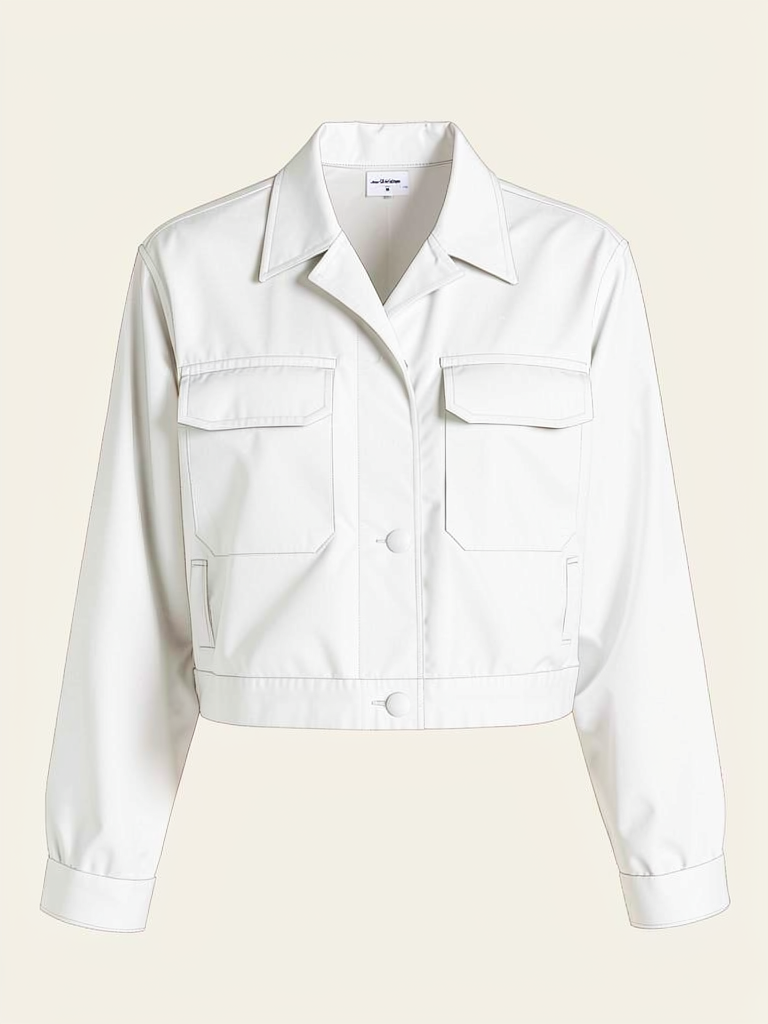
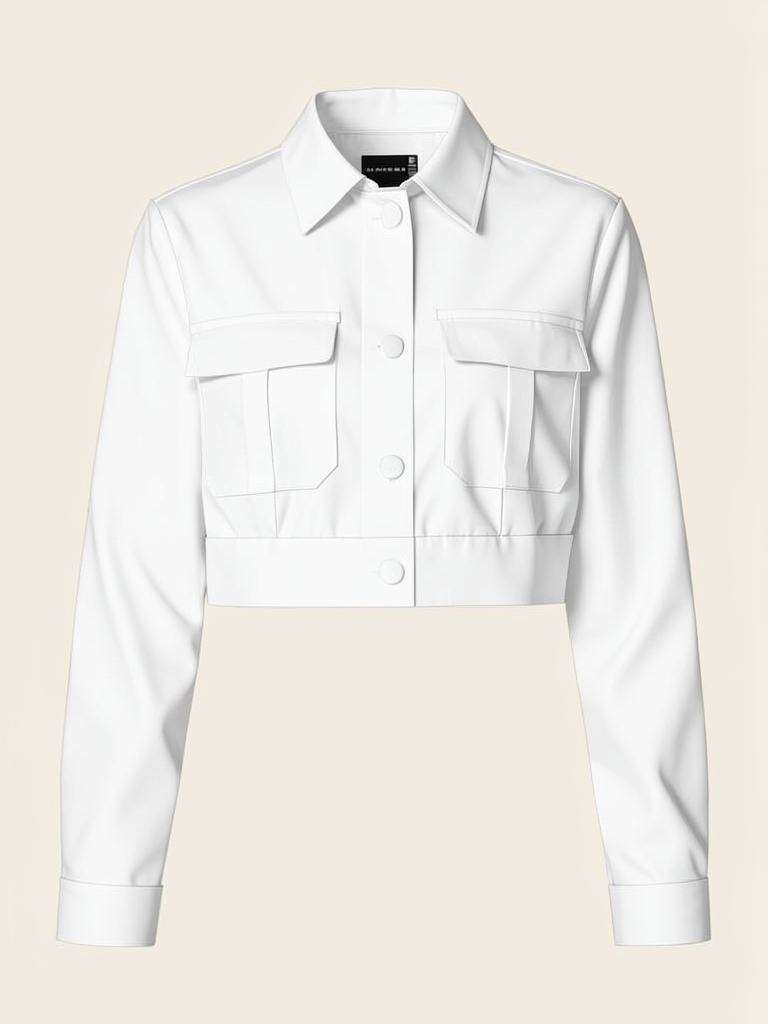
docs: approve Mira cropped jacket and front reference

diff --git a/docs/assets/part-07/chapter-05/p7_5_2_research_fullbody_front_no_accessory.py b/docs/assets/part-07/chapter-05/p7_5_2_research_fullbody_front_no_accessory.py
@@ -1,0 +1,58 @@
+#!/usr/bin/env python3
+"""Generate a front full-body Mira candidate from approved face and prop references."""
+
+from __future__ import annotations
+
+import time
+from pathlib import Path
+
+import torch
+from diffusers import Flux2KleinPipeline
+from PIL import Image
+
+
+ROOT = Path("/home/cbsim/ws/AiBook/docs/assets/part-07/chapter-05")
+REFERENCES = [
+    ROOT / "p7-5-2-face-front-v2.png",
+    ROOT / "p7-5-2-prop-reference-v2-jacket.png",
+    ROOT / "p7-5-2-prop-reference-v2-trousers.png",
+    ROOT / "p7-5-2-prop-reference-v2-shoes.png",
+    ROOT / "p7-5-2-prop-reference-v2-crossbody-bag.png",
+]
+OUTPUT = ROOT / "p7-5-2-fullbody-front-v5-candidate.png"
+MODEL_ID = "black-forest-labs/FLUX.2-klein-4B"
+
+PROMPT = """Original adult Korean webtoon woman, isolated full-body front reference on a blank off-white studio backdrop. Keep the face reference identity: warm light-peach skin, almond cat eyes with chestnut-brown and amber irises, deep teal blue jaw-length bob, and no hair accessory. She is 165 cm tall with crown-to-sole height 7.5 times her head height, standing neutrally with head, shoulders, torso, hips, knees, feet, and gaze facing forward; show both shoe soles with space above her crown and below her feet. Use the wardrobe references: a short white cropped utility jacket over a charcoal crew-neck shirt, with its hem ending at the natural waist just above the trouser waistband; deep teal blue wide-leg trousers; and white low-top sneakers. Wear one deep-navy canvas crossbody bag naturally at the viewer-right hip: its top meets the waistband and its base reaches the upper thigh. One long charcoal strap starts at the viewer-left shoulder and crosses diagonally over the torso to the bag. No extra person, prop, text, or border."""
+
+
+def main() -> None:
+    if not torch.cuda.is_available():
+        raise RuntimeError("CUDA is required")
+    if missing := [path.name for path in REFERENCES if not path.is_file()]:
+        raise FileNotFoundError(", ".join(missing))
+
+    pipe = Flux2KleinPipeline.from_pretrained(
+        MODEL_ID,
+        torch_dtype=torch.bfloat16,
+        cache_dir="/tmp/flux2-klein-diffusers-cache",
+    )
+    pipe.enable_sequential_cpu_offload()
+    pipe.set_progress_bar_config(disable=True)
+
+    started = time.monotonic()
+    image = pipe(
+        image=[Image.open(path).convert("RGB") for path in REFERENCES],
+        prompt=PROMPT,
+        width=768,
+        height=1280,
+        num_inference_steps=12,
+        guidance_scale=1.0,
+        generator=torch.Generator(device="cpu").manual_seed(62285),
+        max_sequence_length=256,
+    ).images[0]
+    image.save(OUTPUT)
+    print(f"{time.monotonic() - started:.2f}s -> {OUTPUT}")
+
+
+if __name__ == "__main__":
+    main()

diff --git a/docs/assets/part-07/chapter-05/p7_5_2_research_cropped_jacket_reference.py b/docs/assets/part-07/chapter-05/p7_5_2_research_cropped_jacket_reference.py
@@ -1,0 +1,62 @@
+#!/usr/bin/env python3
+"""Generate a shorter cropped-jacket prop candidate for Mira's reference pack."""
+
+from __future__ import annotations
+
+import json
+import time
+from pathlib import Path
+
+import torch
+from diffusers import Flux2KleinPipeline
+
+
+ROOT = Path("/home/cbsim/ws/AiBook/docs/assets/part-07/chapter-05")
+MODEL_ID = "black-forest-labs/FLUX.2-klein-4B"
+OUTPUT = ROOT / "p7-5-2-prop-reference-v3-cropped-jacket-candidate.png"
+REPORT = ROOT / "p7-5-2-prop-reference-v3-cropped-jacket-candidate.json"
+PROMPT = """One isolated white cropped utility jacket in a clean front product view on a plain off-white background. Its short straight body ends at the natural waist: the hem sits immediately below the pocket bottoms, with no lower torso extension. Wide collar, two flap chest pockets, simple front buttons, long sleeves with cuffs, a narrow hem band, and clean seams. Clean product illustration. No person, hanger, text, logo, or other object."""
+
+
+def main() -> None:
+    if not torch.cuda.is_available():
+        raise RuntimeError("CUDA is required")
+
+    started = time.monotonic()
+    pipe = Flux2KleinPipeline.from_pretrained(
+        MODEL_ID,
+        torch_dtype=torch.bfloat16,
+        cache_dir="/tmp/flux2-klein-diffusers-cache",
+    )
+    pipe.enable_sequential_cpu_offload()
+    pipe.set_progress_bar_config(disable=True)
+    image = pipe(
+        prompt=PROMPT,
+        width=768,
+        height=1024,
+        num_inference_steps=12,
+        guidance_scale=1.0,
+        generator=torch.Generator(device="cpu").manual_seed(62310),
+        max_sequence_length=256,
+    ).images[0]
+    image.save(OUTPUT)
+    REPORT.write_text(
+        json.dumps(
+            {
+                "status": "review_required",
+                "purpose": "Replace the jacket prop reference with a visibly shorter natural-waist cropped cut.",
+                "input_policy": "prompt only; no style, face, character, or existing prop image input",
+                "model": {"id": MODEL_ID, "runtime": "Diffusers Flux2KleinPipeline sequential CPU offload"},
+                "output": OUTPUT.name,
+                "prompt": PROMPT,
+                "elapsed_seconds": round(time.monotonic() - started, 2),
+                "decision": "Pending human review; this does not replace the approved jacket reference until approved.",
+            },
+            indent=2,
+        ),
+        encoding="utf-8",
+    )
+
+
+if __name__ == "__main__":
+    main()
